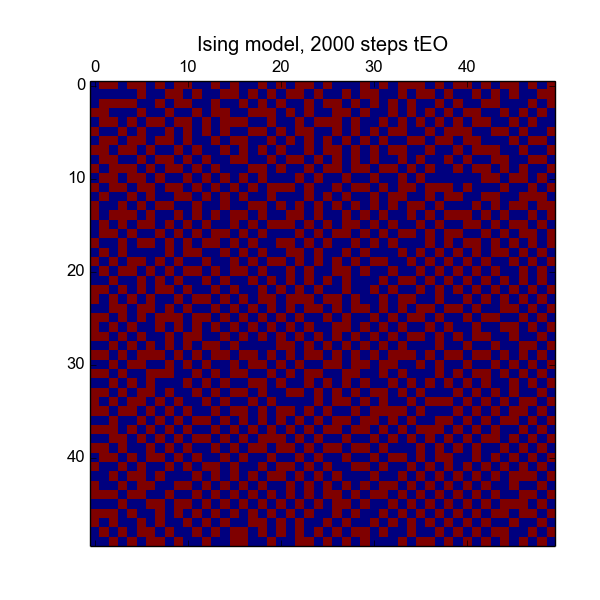
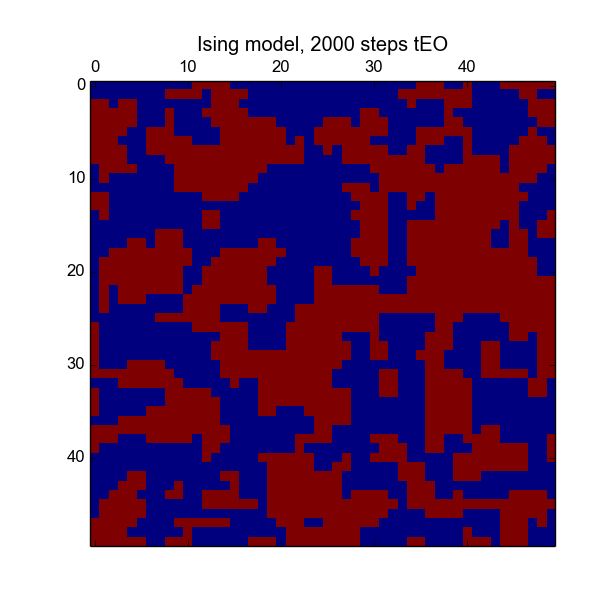
some work on the ising replication, if we want it

diff --git a/analysis/report.tex b/analysis/report.tex
@@ -14,9 +14,9 @@
 \section*{Introduction}
 \subsection*{Issue Addressed}
 
-We wish to address the issue of using an alternative approach to introducing necessary non-determinism to the constraint satisfaction problem in a PDP system, as opposed to the Boltzmann machine with conventional simulated annealing.
+We wish to use an alternative approach to add non-determinism to the constraint satisfaction problem in a PDP system, which would not be a Boltzmann machine with conventional simulated annealing.
 
-An alternative optimization algorithm called $\tau$-extremal optimization($\tau$-EO) is used to update a constraint-satisfaction framework to escape local minima in short amounts of time. It, like simulated annealing, is inspired by condensed matter physics, but $\tau$-EO deals with nonequilibrium systems.
+An alternative optimization algorithm called $\tau$-extremal optimization($\tau$-EO) is used to update a constraint-satisfaction framework to escape local minima in short amounts of time. It, like simulated annealing, is inspired by condensed matter physics, but in this case, by a condensed matter model of evolution.
 
 \subsection*{Why is it interesting?}
 
@@ -27,7 +27,10 @@ The update rule for Boltzmann machines in the general, non-restricted case is ve
 Extremal optimization, in general, is inspired by models of co-evolution. This is as opposed to genetic algorithms and evolutionary algorithms, which are inspired by evolution at a lower level of abstraction(per gene, not per species).
 
 %%% cite: bak-sneppen, gould
-To be specific, there exists a model of evolution called the Bak-Sneppen model, designed to bring about the time dynamics and other qualitative phenomena of evolution in the simplest method possible. It is a one-dimensional lattice model which models nothing about each species except its fitness and the structure of its relations with other species. $N$ species are considered as nodes on a graph which is a one-dimensional lattice (a ring), and each species has a fitness, denoted by a single scalar $\lambda$. At each discrete time step, the least fit species is replaced, and both of its neighbors replaced with it, with new species identical to the old ones except for the fitnesses, which are random. Notably, this selection organizes a fitness threshhold, below which species do not survive because they are always the least fit.
+To be specific, there exists a model of evolution called the Bak-Sneppen model, designed to bring about the time dynamics and other qualitative phenomena of evolution in the simplest method possible. It is a self-organized criticality model, which means that it has its attractor in a phase transition state. It is a one-dimensional lattice model which models nothing about each species except its fitness and the structure of its relations with other species. $N$ species are considered as nodes on a graph which is a one-dimensional lattice (a ring), and each species has a fitness, denoted by a single scalar $\lambda$. At each discrete time step, the least fit species is replaced, and both of its neighbors replaced with it, with new species identical to the old ones except for the fitnesses, which are random. Notably, this selection organizes a fitness threshhold, below which species do not survive because they are always the least fit.
+
+%cite shalizi
+It should be noted as important that there is not necessarily any biological reality to the model, and that it should be considered as a physical condensed-matter model.
 
 \begin{figure}
   \includegraphics{bak_sneppen}
@@ -35,7 +38,15 @@ To be specific, there exists a model of evolution called the Bak-Sneppen model, 
 \end{figure}
 
 %%% cite Bak and Chialvo
-One avenue of exploration was the adaptive extremal dynamics architecture promulgated by Bak and Chialvo as an alternative to conventional connectionist feedforward backpropagation neural nets. %%% what is it (what's the topology)? how does it work? explain why conjunctive neurons make it terribad, compare it to simulated annealing
+One avenue of exploration was the adaptive extremal dynamics architecture promulgated by Bak and Chialvo as an alternative to conventional connectionist feedforward backpropagation neural nets. The topology of their alternative neural net looks much like a feedforward net, but instead of every unit forwarding its activation to the next layer, only the unit with the highest activation does so, except at the input-hidden layer. Learning is done extremally also, in that if a wrong prediction is made, every weight going back to the input layer which was activated is punished. If a correct prediction is made, nothing is done.
+
+Bak and Chialvo note that it is very easy to make very deep nets with this architecture, since there no problem with vanishing gradients or large computations, since there are no gradients. However, this is not as useful as one might think.
+
+%%% what is it (what's the topology)? how does it work? explain why conjunctive neurons make it terribad, compare it to simulated annealing
+%%% bak net: talk about how we were going to do this, why not
+%%%%%%%%%%%%%%%%%%%%%%%%%%%%%%%%%%%%%%%%%%%%%%%%
+%%%%%%%%%%%%%%%%%%%%%%%%%%%%%%%%%%%%%%%%%%%%%%%%
+%%%%%%%%%%%%%%%%%%%%%%%%%%%%%%%%%%%%%%%%%%%%%%%%
 \begin{figure}
   \includegraphics{bak_chialvo_net_topology}
 \end{figure}
@@ -53,8 +64,6 @@ $$P(k) = Ck^{-\tau}$$
 %%% cite the analytic claim that there's an optimum value of tau.
 Where $C$ is a normalizing constant and $\tau$ is the one parameter. There is a claim by Boettcher et al that there is an analytically optimal value of $\tau$ for search time, which is $\tau = 1 + \frac{1}{\ln n}$, where $n$ is the number of variables.%%% by who??
 
-%%%% mention the caching business
-
 %% cite the well-defined mean shit
 The reason why the $P(k)$ is the way it is is because it gives an important advantage to the search pattern of $\tau$-extremal optimization: where other search algorithms are local or global, there is no well-defined scale to its search, because the $P(k)$ is a scale-free distribution, a power law which, because $\tau < 2$, does not have a well-defined mean or variance.
 
@@ -69,31 +78,13 @@ The previous applications of EO and $\tau$-EO include the travelling salesman pr
   \caption{extremal optimization algorithm}
 \end{figure}
 
-
-%%%% talk about replications HERE
-%%% ising model, travelling salesman
-%%% bak net: talk about how we were going to do this, why not
-%%%%%%%%%%%%%%%%%%%%%%%
-%%%%%%%%%%%%%%%%%%%%%%%
-%%%%%%%%%%%%%%%%%%%%%%%
-\frametitle{Ising Model}
-\begin{figure}
-  \includegraphics{2000}
-\end{figure}
-\begin{figure}
-  \includegraphics{10000}
-\end{figure}
-\begin{figure}
-  \includegraphics{ising_energy_unzoomed}
-\end{figure}
-
-\begin{figure}
-  \includegraphics{ising_energy_zoomed}
-\end{figure}
-
 \section{Methods}
 
 %%%%% moar pictures, figures, shit like that
+%%%%%%%%%%%%%%%%%%%%%%%%%%%%%%%%%%%%%%%%%%%%%%%%
+%%%%%%%%%%%%%%%%%%%%%%%%%%%%%%%%%%%%%%%%%%%%%%%%
+%%%%%%%%%%%%%%%%%%%%%%%%%%%%%%%%%%%%%%%%%%%%%%%%
+%%%%%%%%%%%%%%%%%%%%%%%%%%%%%%%%%%%%%%%%%%%%%%%%
 
 %%% cite schema network
 Because of the problem of long simulation times of the Boltzmann machine and of the close relation of the Boltzmann machine to the Ising models which had already been simulated in the literature, a constraint satisfaction network was made which would have non-determinimism introduced to it by using the $\tau$-EO algorithm, just as a Boltzmann machine can be construed as a schema network with non-determinism introduced into it in another way.
@@ -102,9 +93,7 @@ Because of the problem of long simulation times of the Boltzmann machine and of 
 In order to do this, we needed to choose a $\tau$ and to determine the fitness function. Both are fairly obvious: we chose the claimed analytic optimum from Boetcher et al and we chose the already existing goodness function from the PDP version of the schema network.
 
 %%% cite the Boettcher thing with a heap
-We want a feasible measurement of speed, which would be somewhat comparable between algorithms. However, speed in computation is complicated to measure honestly and not really germane to what is the real problem here, which is local versus global search of the problem space. For example, Boettcher et al suggest maintaining a heap in order to draw the $k$th ranked member of the local fitnesses, which is probably a sensible suggestion in their apparatus, but a whole sort of a Numpy array is actually an order of magnitude faster than the heap popping and pushing operator in Python, because it's implemented as a Python native function. And vectorization in Numpy gives two or three order-of-magnitude differences in wall-clock execution time as well. Therefore, we decided that the proper measure of execution time should actually be number of iterations of the algorithm before converging to one of the global minima. % this is a mess
-
-%%% is there an inequality between the iterations? say that they have the same semantics? it's just a convenient place to look at...
+We want a feasible measurement of speed, which would be somewhat comparable between algorithms. However, speed in computation is complicated to measure honestly and not really germane to what is the real problem here, which is local versus global search of the problem space. For example, Boettcher et al suggest maintaining a heap in order to draw the $k$th ranked member of the local fitnesses, which is probably a sensible suggestion in their apparatus, but a whole sort of a Numpy array is actually an order of magnitude faster than the heap popping and pushing operator in Python, because it's implemented as a Python native function. And vectorization in Numpy gives two or three order-of-magnitude differences in wall-clock execution time as well. Therefore, we decided that the proper measure of execution time should actually be the number of iterations of the algorithm before converging to one of the global minima, not wall-clock time or clock-cycle time.
 
 % did we cite frigging pdp yet? we should, really, this is a thing
 Therefore, noting those problems, we chose the simplest problem possible which could test whether the $\tau$-extremal optimization was better in some way than simulated annealing or not, which is the Necker Cube constraint satisfaction problem from the PDP book. Each vertext of the Necker Cube has two units each, which represent the two interpretations of the cube, with a local minimum at the state where four units making up one face are activated in one interpretation, and the other four units making up the other face on the other interpretation are activated. This, as the PDP book mentions, is one of the sipmlest possible constraint satisfaction problems with a local optimum, which can test the claim that the $\tau$-extremal optimization gets out of local optima well.
@@ -122,12 +111,14 @@ We used, for the RBM task, a digit dataset from scikit-learn, which has 1797 sam
 First, the results on the RBM. We did not see the large scale-free jumps that we experienced in the Ising model and expected in the RBM.
 
 %%% pontificate on the possible caues
+%%%%%%%%%%%%%%%%%%%%%%%%%%%%%%%%%%%%%%%%%%%%%%%%
+%%%%%%%%%%%%%%%%%%%%%%%%%%%%%%%%%%%%%%%%%%%%%%%%
+%%%%%%%%%%%%%%%%%%%%%%%%%%%%%%%%%%%%%%%%%%%%%%%%
 
 \begin{figure}
   \includegraphics{eo_rbm_unzoomed}
 \end{figure}
 
-%%% talk about the greedyness, how we don't have the best one because we know there exists exactly two global minima
 
 The results on the $\tau$-EO necker cube task were, however, as expected. Figure \ref{fig:speed} is a histogram of the iteration numbers of each of the $2^16$ possible states before converging on a global optimum of the Necker cube task, with simulated annealing, simulated annealing with an annealing schedule, and the $\tau$-extremal optimization. Note the log-log scale.
 
@@ -146,28 +137,38 @@ Note that there is a longer tail in the histogram for the simulated annealing wi
 %%% but why is the tauEO faster? immediately after it makes a huge jump to escape local minima, the power law distribution of tau means that it will tend to explore the new local state space really fast, for basically the same reason that it's an online algorithm.
 
 %%% pull out the pictures of training, note the semi-greedyness and cluelessness of the algorithm. "this is what the scale-free search looks like"
+%%%%%%%%%%%%%%%%%%%%%%%%%%%%%%%%%%%%%%%%%%%%%%%%
+%%%%%%%%%%%%%%%%%%%%%%%%%%%%%%%%%%%%%%%%%%%%%%%%
+%%%%%%%%%%%%%%%%%%%%%%%%%%%%%%%%%%%%%%%%%%%%%%%%
+%%%%%%%%%%%%%%%%%%%%%%%%%%%%%%%%%%%%%%%%%%%%%%%%
+%%%%%%%%%%%%%%%%%%%%%%%%%%%%%%%%%%%%%%%%%%%%%%%%
+%%%%%%%%%%%%%%%%%%%%%%%%%%%%%%%%%%%%%%%%%%%%%%%%
 
 \section{Discussion}
 %Summarize your goals, your approach, and your main findings, and state a conclusion indicating how well, overall, your goals have been met.
 %%% goals: make a faster thing than SA for abstract csp
 %%% approach: tau-EO for cs net
 %%% findings: spiffy results
+%%%%%%%%%%%%%%%%%%%%%%%%%%%%%%%%%%%%%%%%%%%%%%%%
+%%%%%%%%%%%%%%%%%%%%%%%%%%%%%%%%%%%%%%%%%%%%%%%%
+%%%%%%%%%%%%%%%%%%%%%%%%%%%%%%%%%%%%%%%%%%%%%%%%
+%%%%%%%%%%%%%%%%%%%%%%%%%%%%%%%%%%%%%%%%%%%%%%%%
+%%%%%%%%%%%%%%%%%%%%%%%%%%%%%%%%%%%%%%%%%%%%%%%%
+%%%%%%%%%%%%%%%%%%%%%%%%%%%%%%%%%%%%%%%%%%%%%%%%
+%%%%%%%%%%%%%%%%%%%%%%%%%%%%%%%%%%%%%%%%%%%%%%%%
+%%%%%%%%%%%%%%%%%%%%%%%%%%%%%%%%%%%%%%%%%%%%%%%%
+%%%%%%%%%%%%%%%%%%%%%%%%%%%%%%%%%%%%%%%%%%%%%%%%
+%%%%%%%%%%%%%%%%%%%%%%%%%%%%%%%%%%%%%%%%%%%%%%%%
+%%%%%%%%%%%%%%%%%%%%%%%%%%%%%%%%%%%%%%%%%%%%%%%%
 
 %%% cite Boettcher for the disequilibrium stuff
 %%% cite boettcher's heuristic about the number of iterations
 An important feature of the algorithm is that it works in disequilibrium. That is, it runs the same whether it's early in the search or late in the search. Unlike simulated annealing with an annealing schedule, which doesn't work as an online algorithm, or an algorithm which can be given its input piece by piece, that there is nothing preventing $\tau$-extremal optimization from being used online. This property is of a piece with the scale-free search mentioned above. One important drawback to this is that for real problems the number of iterations needs to be determined via heuristic.
 
 Because this project attempted to completely explore an entire state space of a problem, it was not feasible to explore a non-toy problem: that is, a problem where it's not possible to explore the entire state space, and therefore other measures of speech must be checked. It remains to be seen if this speed can be replicated in a larger problem domain with different local optima.
-%Then, discuss shortcomings or limitations of your effort and indicate how these might be overcome in future work.
-%%% limitations: limited net, not fully connected, not a real problem. doesn't scale up.
-%%% limitations: not thinking hard about neuronal connectivity. one thing that continues on the subject of criticality is modelling chialvo's work
-%%% broader implications: try to look carefully at the critical regions of abstract NP-complete problem
 
-%%Also, indicate broader implications and potential future applications of the ideas and approach.
-
-%%% cite chialvo
-%%% compare to Chialvo stuff
-It cannot necessarily be the case that a power law is evidence for \emph{only} self-organized criticality, but %%begin and finish this
+%% cite the chialvo paper, small world net review, modelling review
+Another interesting direction would be to try to explore scale-freeness in the connectivity of the graph. Chialvo et al claim that the functional connectivity of the brain has a scale-free network character. The functional graph they create is a small world net, with a power law distribution of degree rank and a bevy of other features. This is exciting, since there is a vast literature on simulating, modelling and even fitting these graphs, and this might be of interest to connectionist modelling.
 
 \begin{thebibliography}[99]
 

diff --git a/spin_eo/spin_eo.py b/spin_eo/spin_eo.py
@@ -23,13 +23,13 @@ def conf_energy(config):
     for x in xrange(0, dims[0]):
         for y in xrange(0, dims[1]):
             if (x+1 < dims[0]):
-                local_energy[x, y] += config[x,y] * config[x+1,y]
+                local_energy[x, y] -= config[x,y] * config[x+1,y]
             if (x-1 > 0):
-                local_energy[x, y] += config[x-1,y] * config[x,y]
+                local_energy[x, y] -= config[x-1,y] * config[x,y]
             if (y+1 < dims[1]):
-                local_energy[x, y] += config[x,y] * config[x,y+1]
+                local_energy[x, y] -= config[x,y] * config[x,y+1]
             if (y-1 > 0):
-                local_energy[x, y] += config[x,y-1] * config[x,y]
+                local_energy[x, y] -= config[x,y-1] * config[x,y]
     hamiltonian = local_energy.sum()
     return (hamiltonian, local_energy)
 
@@ -68,7 +68,3 @@ if __name__ == "__main__":
         plt.matshow(opt_config)
         plt.title("Ising model, 2000 steps tEO")
         plt.savefig("2000.png")
-        opt_config, score = optimize_spinglass(config, steps=8000, disp=True)
-        plt.matshow(opt_config)
-        plt.title("Ising model, 10000 steps tEO")
-        plt.savefig("10000.png")
